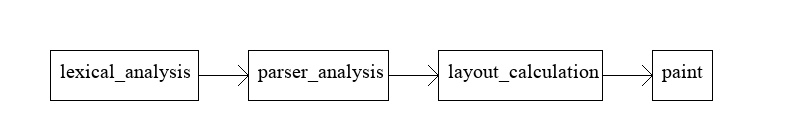
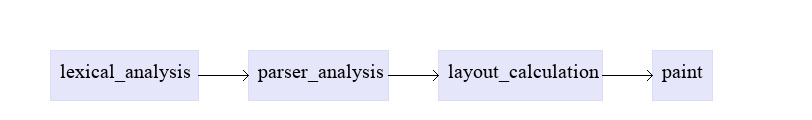
add background

diff --git a/drawer.py b/drawer.py
@@ -26,8 +26,8 @@ def __draw_new_right_arrow( draw, x1, y1, x2, y2):
 
     ### draw arrow
     end_x, end_y = x2, y2
-    upper_arrow_x, upperarrow_y = end_x - 10, y2 + 10
-    lower_arrow_x, lower_arrow_y = end_x - 10, y2 - 10
+    upper_arrow_x, upperarrow_y = end_x - 5, y2 + 5
+    lower_arrow_x, lower_arrow_y = end_x - 5, y2 - 5
 
     draw.line((upper_arrow_x, upperarrow_y, end_x, end_y), fill=(0, 0, 0), width=1)
     draw.line((lower_arrow_x, lower_arrow_y, end_x, end_y), fill=(0, 0, 0), width=1)
@@ -40,7 +40,7 @@ def draw_text(draw, x, y, str_text):
 
 def drawRectangle(draw, rectangle):
     point = rectangle.points()
-    draw.rectangle(rectangle.points(),  fill=(255, 255, 255), outline=(0, 0, 0), width=1)
+    draw.rectangle(rectangle.points(),  fill=(230,230,250), outline=(220, 220, 250), width=1)
     text_x, text_y = rectangle.text_pos
 
     draw_text(draw, text_x, text_y, rectangle.text)
@@ -83,7 +83,6 @@ def drawTdLayout(topdownLayout, file = None):
 
 def __draw_new_top_down_arrow( draw, x1, y1, x2, y2):
     draw.line((x1, y1, x2, y2), fill=(0, 0, 0), width=1)
-
 
     ### draw arrow
     end_x, end_y = x2, y2
